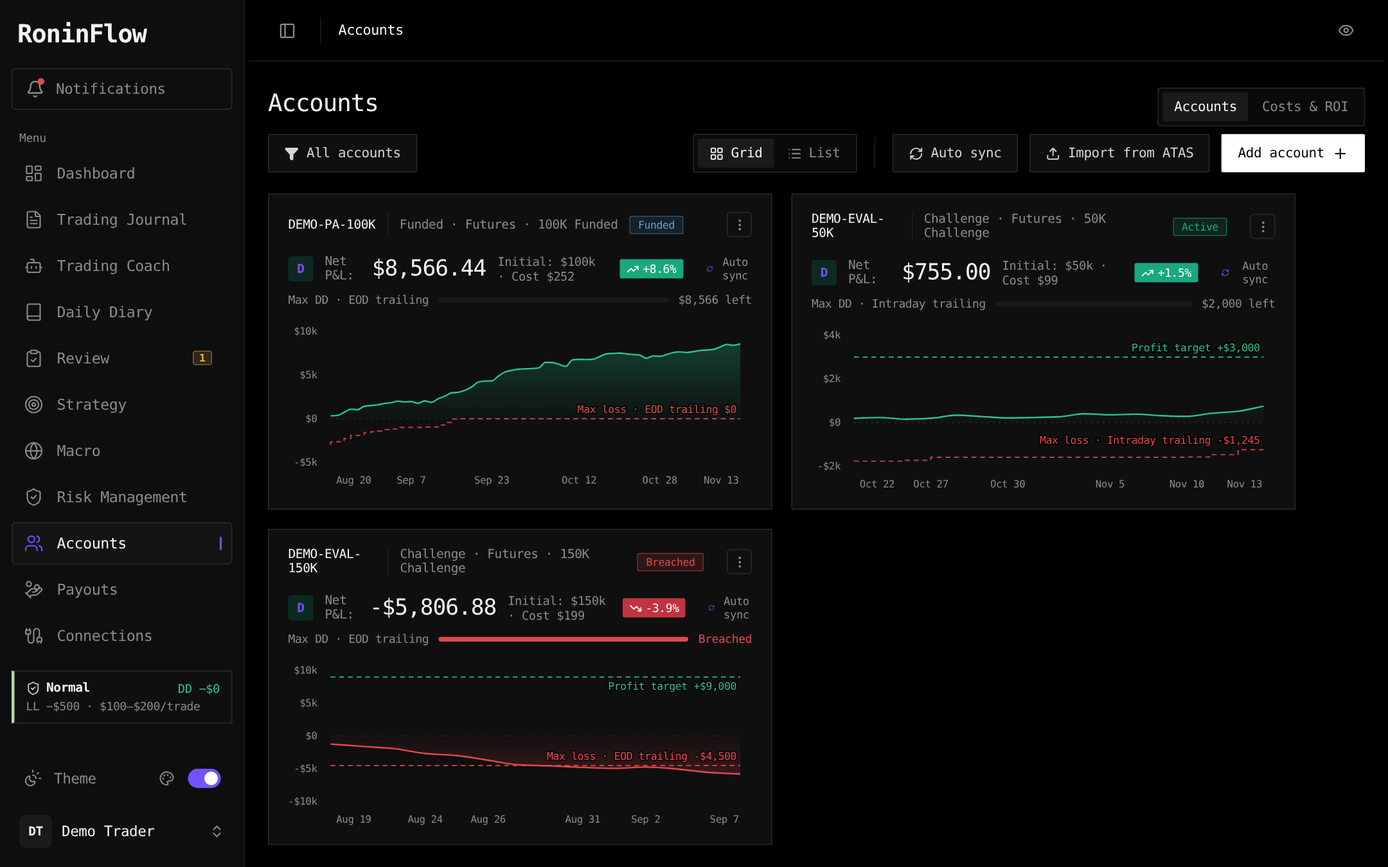
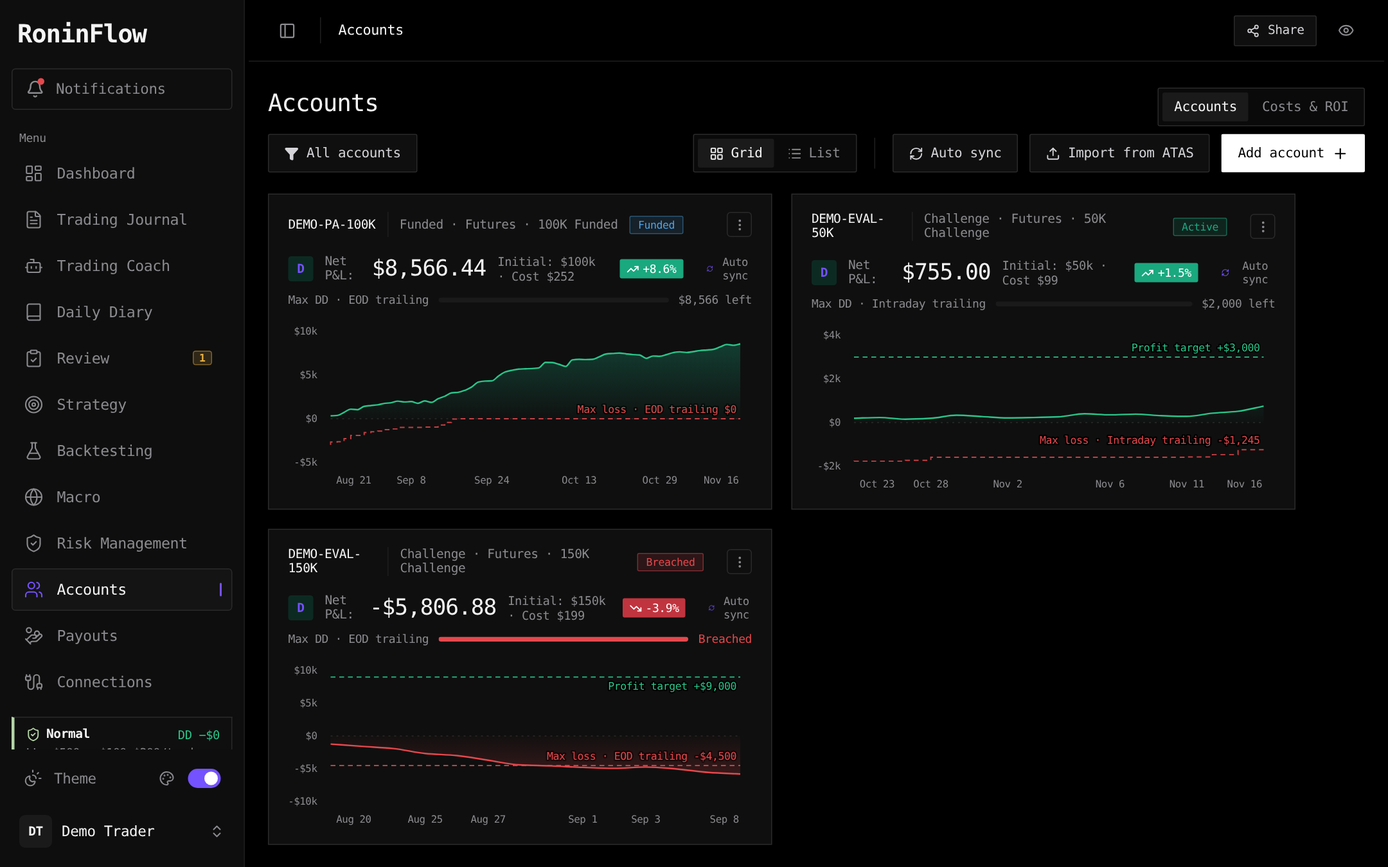
1.8.0: backtesting, tick replay, volume profile — and all of it in the live demo
- demo: COT 'Add market' (sample markets), earlier releases of calendar events,
  snapshot files built in the browser (charts included); backtesting and charts work
- builds are one script file, so snapshot files are fully self-contained
- README: features, screenshots (backtest replay, automated results, optimizer,
  what-if, economic calendar, COT, …), the Backtesting page and tick data sources
- CHANGELOG 1.8.0

Claude-Session: https://claude.ai/code/session_01UwZjWnkvuFAiHZyDgpbxUS

diff --git a/src/lib/macroDemo.js b/src/lib/macroDemo.js
@@ -66,10 +66,24 @@ const MARKETS = [
   ['GC', 'Gold', 'Metals', 5e5, 0.45], ['SI', 'Silver', 'Metals', 1.6e5, 0.3], ['HG', 'Copper', 'Metals', 2.1e5, 0.08],
   ['CL', 'Crude Oil (WTI)', 'Energy', 1.7e6, 0.1], ['NG', 'Natural Gas', 'Energy', 1.5e6, -0.22], ['BTC', 'Bitcoin', 'Crypto', 2.8e4, 0.12], ['ZC', 'Corn', 'Grains', 1.5e6, -0.18],
 ];
-function cot() {
+// markets the demo lets you add (RoninFlow on your computer lists all ~400 in the CFTC report)
+const EXTRA = [
+  ['PL', 'PLATINUM - NEW YORK MERCANTILE EXCHANGE', 7e4, 0.2], ['PA', 'PALLADIUM - NEW YORK MERCANTILE EXCHANGE', 2e4, -0.25],
+  ['ZW', 'WHEAT-SRW - CHICAGO BOARD OF TRADE', 4e5, -0.3], ['ZS', 'SOYBEANS - CHICAGO BOARD OF TRADE', 8e5, 0.05], ['LE', 'LIVE CATTLE - CHICAGO MERCANTILE EXCHANGE', 3.5e5, 0.4],
+  ['HE', 'LEAN HOGS - CHICAGO MERCANTILE EXCHANGE', 2.8e5, 0.1], ['SB', 'SUGAR NO. 11 - ICE FUTURES U.S.', 9e5, -0.15], ['KC', 'COFFEE C - ICE FUTURES U.S.', 2e5, 0.35],
+  ['CC', 'COCOA - ICE FUTURES U.S.', 1.6e5, 0.2], ['CT', 'COTTON NO. 2 - ICE FUTURES U.S.', 2.4e5, -0.2], ['6C', 'CANADIAN DOLLAR - CHICAGO MERCANTILE EXCHANGE', 1.7e5, -0.3],
+  ['6S', 'SWISS FRANC - CHICAGO MERCANTILE EXCHANGE', 6e4, -0.1], ['6M', 'MEXICAN PESO - CHICAGO MERCANTILE EXCHANGE', 2.2e5, 0.45], ['6N', 'NZ DOLLAR - CHICAGO MERCANTILE EXCHANGE', 5e4, -0.3],
+  ['VX', 'VIX FUTURES - CBOE FUTURES EXCHANGE', 3.5e5, -0.35], ['ZT', 'UST 2Y NOTE - CHICAGO BOARD OF TRADE', 4e6, -0.1], ['ZF', 'UST 5Y NOTE - CHICAGO BOARD OF TRADE', 6e6, -0.2],
+  ['ETH', 'ETHER CASH SETTLED - CHICAGO MERCANTILE EXCHANGE', 1.4e4, 0.1], ['HO', 'NY HARBOR ULSD - NEW YORK MERCANTILE EXCHANGE', 3.2e5, 0.05], ['RB', 'GASOLINE RBOB - NEW YORK MERCANTILE EXCHANGE', 3.4e5, 0.15],
+].map(([key, name, oi0, bias], k) => ({ key, name, oi0, bias, code: `DX${String(k).padStart(3, '0')}` }));
+function cotMarkets() { return { markets: EXTRA.map(({ code, name }) => ({ code, name: `${name} (sample)` })).sort((a, b) => a.name.localeCompare(b.name)) }; }
+
+function cot(extraCodes = []) {
   const weeks = 160;
   const last = new Date(); last.setUTCDate(last.getUTCDate() - ((last.getUTCDay() + 5) % 7) - (last.getUTCDay() >= 5 ? 0 : 7)); // last Tuesday with a released report
-  const markets = MARKETS.map(([key, label, group, oi0, bias], k) => {
+  const extras = extraCodes.map((c) => EXTRA.find((x) => x.code === c)).filter(Boolean);
+  const list = [...MARKETS.map(([key, label, group, oi0, bias]) => ({ key, label, group, oi0, bias })), ...extras.map((x) => ({ key: x.code, label: x.name.split(' - ')[0], group: 'Yours', oi0: x.oi0, bias: x.bias, code: x.code, name: `${x.name} (sample)`, extra: true }))];
+  const markets = list.map(({ key, label, group, oi0, bias, code, name, extra }, k) => {
     let net = bias * oi0 * 0.6, oi = oi0;
     const rows = [];
     for (let w = weeks - 1; w >= 0; w--) {
@@ -82,15 +96,25 @@ function cot() {
       const cl = Math.round(oi * 0.5 - net * 0.8), cs = Math.round(oi * 0.5 + net * 0.2);
       rows.push([d, Math.round(oi), Math.max(0, sl), Math.max(0, ss), Math.max(0, cl), Math.max(0, cs), Math.round(oi * 0.08 + small), Math.round(oi * 0.08 - small)]);
     }
-    return { key, label, group, code: `DEMO${k}`, name: `${label.toUpperCase()} — sample data`, rows };
+    return { key, label, group, code: code || `DEMO${k}`, name: name || `${label.toUpperCase()} — sample data`, rows, ...(extra ? { extra: true } : {}) };
   });
   const reportDate = markets[0].rows[markets[0].rows.length - 1][0];
   return { markets, reportDate, nextRelease: new Date(Date.parse(`${reportDate}T20:30:00Z`) + 10 * DAY).toISOString(), updatedAt: Date.now(), source: 'Sample data (demo) — RoninFlow on your computer loads the real CFTC report' };
 }
 
+/** Earlier releases of one event (the same made-up numbers the calendar shows for those weeks). */
+function history(ccy, title) {
+  const now = Date.now();
+  const all = calendar(new Date(now - 400 * DAY).toISOString().slice(0, 10), new Date(now).toISOString().slice(0, 10)).events;
+  return { events: all.filter((e) => e.ccy === ccy && e.title === title && Date.parse(e.t) < now).slice(-12) };
+}
+
 export function demoMacro(url) {
   const u = new URL(url, 'http://x');
+  if (u.pathname.endsWith('/calendar/history')) return history(u.searchParams.get('ccy'), u.searchParams.get('title'));
   if (u.pathname.endsWith('/calendar')) return calendar(u.searchParams.get('from'), u.searchParams.get('to'));
-  if (u.pathname.endsWith('/cot')) return cot();
+  if (u.pathname.endsWith('/cot/markets')) return cotMarkets();
+  if (u.pathname.endsWith('/cot')) return cot((u.searchParams.get('extra') || '').split(',').filter(Boolean));
+  if (u.pathname.endsWith('/refresh')) return { ok: true };
   return {};
 }

diff --git a/src/lib/demoSnapshot.js b/src/lib/demoSnapshot.js
@@ -1,0 +1,46 @@
+// Snapshot files on the demo site: the same single-file view-only journal RoninFlow makes, built in the browser
+// (the demo has no server). The page, its styles and script are inlined; the made-up prices for the trade days and
+// the chart library go along, so the execution charts work in the file too.
+import { DEMO_CHART_LIB } from './demoMode';
+import { demoCandles } from './demoCandles';
+
+const scriptSafe = (json) => json.replace(/</g, '\\u003c').replace(/\u2028/g, '\\u2028').replace(/\u2029/g, '\\u2029');
+const addDays = (key, n) => { const d = new Date(`${key}T12:00:00Z`); d.setUTCDate(d.getUTCDate() + n); return d.toISOString().slice(0, 10); };
+const get = async (url) => { const r = await fetch(url); if (!r.ok) throw new Error(`Couldn’t load ${url}`); return r.text(); };
+
+/** scope: { kind: 'all' } | { kind: 'page', route, label, from?, to? } */
+export async function demoSnapshot(state, scope, label, hideMoney) {
+  const s = JSON.parse(JSON.stringify(state));
+  if (scope.kind === 'page' && scope.from && scope.to) { // a page with dates only carries those dates
+    const lo = addDays(scope.from, -1), hi = addDays(scope.to, 1);
+    s.trades = (s.trades || []).filter((t) => String(t.entry).slice(0, 10) >= lo && String(t.entry).slice(0, 10) <= hi);
+    s.diary = Object.fromEntries(Object.entries(s.diary || {}).filter(([d]) => d >= scope.from && d <= scope.to));
+  }
+  s.payouts = []; s.notebook = undefined; s.coachChats = undefined;
+  s.settings = { ...s.settings, privacy: !!(hideMoney || s.settings?.privacy), setupDone: true };
+  // the made-up prices for each traded symbol and day
+  const charts = {};
+  for (const t of s.trades || []) {
+    const d = String(t.entry || '').slice(0, 10);
+    const k = `${t.symbol}|${d}`;
+    if (!t.symbol || !d || charts[k]) continue;
+    const candles = demoCandles(s.trades, t.symbol, d);
+    if (candles.length) charts[k] = { symbol: t.symbol, date: d, interval: '1m', source: 'Made-up demo prices', final: true, candles };
+  }
+  let chartLib = null;
+  try { chartLib = await get(DEMO_CHART_LIB); } catch { /* offline: the file says charts aren't included */ }
+  // the page, with its styles and script inlined
+  const base = import.meta.env.BASE_URL || '/';
+  let html = await get(base);
+  html = html.replace(/\s*<link rel="(icon|manifest|apple-touch-icon|modulepreload)"[^>]*>/g, '');
+  for (const m of [...html.matchAll(/<link rel="stylesheet"[^>]*href="([^"]+\.css)"[^>]*>/g)]) { const css = await get(new URL(m[1], location.href).href); html = html.replace(m[0], () => `<style>${css}</style>`); } // a function: no "$&" surprises
+  const sm = html.match(/<script type="module"[^>]*src="([^"]+\.js)"[^>]*><\/script>/);
+  if (!sm) throw new Error('Couldn’t find the app script');
+  const code = (await get(new URL(sm[1], location.href).href)).replace(/<\/script/gi, '<\\/script');
+  const meta = { scope, label, hideMoney: !!hideMoney, createdAt: new Date().toISOString(), snapshot: true, sharedBy: 'Demo', images: {}, charts, chartLib };
+  const boot = `<script>window.__RF_SNAPSHOT__=${scriptSafe(JSON.stringify({ meta, state: s }))};</script>\n<script type="module">${code}</script>`;
+  html = html.replace(sm[0], () => boot);
+  html = html.replace(/<title>[^<]*<\/title>/, () => `<title>${String(label || 'Journal').replace(/[<>&]/g, '')} · RoninFlow (view only)</title>`);
+  const name = `roninflow-demo-${(scope.kind === 'page' ? label || 'page' : 'journal').toLowerCase().replace(/[^a-z0-9]+/g, '-').replace(/^-|-$/g, '')}.html`;
+  return { html, name };
+}

diff --git a/src/components/ShareDialog.jsx b/src/components/ShareDialog.jsx
@@ -34,7 +34,6 @@ const scopeText = (l) => (l.scope?.kind === 'page' ? l.scope.label || 'A page' :
 
 export function ShareButton({ route }) {
   const [open, setOpen] = useState(false);
-  if (IS_DEMO) return null;
   return (
     <>
       <button className="btn sm share-btn" onClick={() => setOpen(true)} title="Share a view-only link or snapshot of your journal"><Share2 size={14} /> <span className="hide-m">Share</span></button>
@@ -91,6 +90,19 @@ export default function ShareDialog({ route, onClose }) {
   };
   const snapshot = async () => {
     setBusy('snap');
+    if (IS_DEMO) { // no server on the demo site: the file is put together in this browser
+      try {
+        const { demoSnapshot } = await import('../lib/demoSnapshot');
+        const { html, name } = await demoSnapshot(state, scope, label, hideMoney);
+        const url = URL.createObjectURL(new Blob([html], { type: 'text/html' }));
+        const a = Object.assign(document.createElement('a'), { href: url, download: name });
+        document.body.appendChild(a); a.click(); a.remove();
+        setTimeout(() => URL.revokeObjectURL(url), 5000);
+        toast('Snapshot downloaded — open it in any browser');
+      } catch (e) { toast(e.message); }
+      setBusy('');
+      return;
+    }
     try {
       const r = await fetch('/api/shares/snapshot', { method: 'POST', headers: { 'content-type': 'application/json' }, body: JSON.stringify({ scope, label, hideMoney, tz: Intl.DateTimeFormat().resolvedOptions().timeZone }) });
       if (!r.ok) throw new Error('Couldn’t build the snapshot');
@@ -118,7 +130,8 @@ export default function ShareDialog({ route, onClose }) {
     <Modal open onClose={onClose} width={640}>
       <ModalHead title="Share your journal" sub="A view-only link or file — account numbers are hidden and nothing can be changed" onClose={onClose} />
       <div className="modal-body share-body">
-        {!server && <div className="share-warn">Sharing needs RoninFlow running on your computer (the app, Docker or a home server).</div>}
+        {!server && !IS_DEMO && <div className="share-warn">Sharing needs RoninFlow running on your computer (the app, Docker or a home server).</div>}
+        {IS_DEMO && <div className="share-warn">In the demo you can download a snapshot file. Live links are served by RoninFlow on your computer (or home server), so they aren’t available here.</div>}
 
         <div className="field"><label className="label">What to share</label>
           <div className="share-what">
@@ -169,7 +182,7 @@ export default function ShareDialog({ route, onClose }) {
 
         <section className="share-sec">
           <div className="share-sec-h"><Download size={15} /> <b>Snapshot file</b><span className="muted">— one file that opens in any browser, even when this computer is off; frozen as it is now, execution charts included</span></div>
-          <button className="btn" disabled={!server || busy === 'snap'} onClick={snapshot}><Download size={14} /> {busy === 'snap' ? 'Building…' : `Download ${scope.kind === 'page' ? 'this page' : 'the whole journal'} as a file`}</button>
+          <button className="btn" disabled={(!server && !IS_DEMO) || busy === 'snap'} onClick={snapshot}><Download size={14} /> {busy === 'snap' ? 'Building…' : `Download ${scope.kind === 'page' ? 'this page' : 'the whole journal'} as a file`}</button>
         </section>
 
         {links.length > 0 && (

diff --git a/src/views/Cot.jsx b/src/views/Cot.jsx
@@ -124,7 +124,7 @@ function AddMarket({ have, onAdd }) {
   const [q, setQ] = useState('');
   const [err, setErr] = useState(null);
   const load = () => {
-    if (list || IS_DEMO) return;
+    if (list) return;
     fetch('/api/macro/cot/markets').then((r) => r.json()).then((j) => (j.markets ? setList(j.markets) : setErr(j.error || 'Couldn’t load the list'))).catch((e) => setErr(e.message));
   };
   const needle = q.trim().toLowerCase();
@@ -133,7 +133,7 @@ function AddMarket({ have, onAdd }) {
     <Popover align="right" width={380} trigger={({ toggle }) => <button className="btn sm" onClick={() => { load(); toggle(); }}><Plus size={14} /> Add market</button>}>
       {(close) => (
         <div className="cot-add">
-          {IS_DEMO ? <div className="muted" style={{ padding: 10, fontSize: 13 }}>In RoninFlow on your computer you can add any of the ~400 markets in the CFTC report.</div> : (
+          {(
             <>
               <label className="ec-search" style={{ margin: 6 }}><Search size={15} /><input className="input" autoFocus placeholder="Search all CFTC markets" value={q} onChange={(e) => setQ(e.target.value)} /></label>
               <div className="cot-add-list">
@@ -141,6 +141,7 @@ function AddMarket({ have, onAdd }) {
                 {!list && !err && <div className="muted" style={{ padding: 10 }}>Loading…</div>}
                 {found.map((m) => <button key={m.code} className="pop-item" onClick={() => { onAdd(m.code); close(); }}><span className="grow truncate" title={m.name}>{m.name}</span><span className="muted mono">{m.code}</span></button>)}
                 {list && !found.length && <div className="muted" style={{ padding: 10, fontSize: 13 }}>No match.</div>}
+                {IS_DEMO && list && <div className="muted" style={{ padding: '6px 10px', fontSize: 12 }}>Sample markets in the demo — RoninFlow on your computer lists all ~400 in the CFTC report.</div>}
               </div>
             </>
           )}

diff --git a/src/lib/demoMode.js b/src/lib/demoMode.js
@@ -43,6 +43,7 @@ export function installDemoFetch() {
       if (url.startsWith('/api/candles/history/bars')) return import('./demoCandles').then(({ demoHistory }) => reply(200, demoHistory(q.get('symbol'), q.get('from') < '2025-01-01' ? '2025-01-01' : q.get('from'), q.get('to') > last ? last : q.get('to'))));
       return reply(200, { job: { status: 'done', reason: 'demo', oldest: '2025-01-06', done: 98, bars: 0 }, coverage: { days: 480, first: '2025-01-01', last }, contract: { source: 'demo', c: q.get('symbol') } });
     }
+    if (url.startsWith('/api/macro/')) return import('./macroDemo').then(({ demoMacro }) => reply(200, demoMacro(url))); // sample macro data
     if (url.startsWith('/api/candles')) return reply(404, { error: 'Not available in the demo.' });
     return reply(404, { error: 'Not available in the demo — this needs RoninFlow running on your computer.' });
   };

diff --git a/vite.config.js b/vite.config.js
@@ -10,4 +10,6 @@ export default defineConfig({
   // Fixed port so the ATAS add-on always knows where to send trades.
   server: { port: 5173, strictPort: true, watch: { ignored: ['**/atas-addon/**', '**/data/**', '**/logs/**'] } },
   preview: { port: 5173, strictPort: true },
+  // one script file: a snapshot (share → file) inlines it, so nothing may load separately later
+  build: { rolldownOptions: { output: { codeSplitting: false } } },
 })

diff --git a/README.md b/README.md
@@ -9,7 +9,7 @@ reviews and screenshots stay on your own machine.
 [![Live demo](https://img.shields.io/badge/live%20demo-try%20it-7452ff)](https://coreyheyman.github.io/roninflow/)
 [![Docker](https://img.shields.io/badge/docker-ghcr.io-7452ff)](https://github.com/coreyheyman/roninflow/pkgs/container/roninflow)
 
-**[▶ Try the live demo](https://coreyheyman.github.io/roninflow/)** (made-up data and prices — charts and replay included — runs in your browser) ·
+**[▶ Try the live demo](https://coreyheyman.github.io/roninflow/)** (made-up data and prices — charts, tick replay, backtesting, Macro and snapshot sharing included — runs in your browser) ·
 **[⬇ Download for Windows](https://github.com/coreyheyman/roninflow/releases/latest)** ·
 **[🍎🐧 macOS & Linux](docs/install.md#macos-and-linux)** ·
 **[🐳 Docker](docs/install.md#docker-home-server-nas-raspberry-pi-45)**
@@ -26,18 +26,33 @@ reviews and screenshots stay on your own machine.
   breakdown of what it says about your trading), **Custom Chart** widgets (any metric by weekday, hour, symbol, strategy,
   tag… with up to three metrics) and **Cross Analysis** (symbol × weekday / week / month / quarter heat map).
 - **Full-screen charts with a market replay:** every execution chart in the diary opens full screen with drawing tools
-  (trend lines, Fibonacci, rectangles, long / short positions, text you can resize and rotate…), indicators (EMA, SMA, VWAP,
-  Bollinger, RSI, MACD), timeframes from 1m to 1d, your colours and a screenshot button — then **replay the session bar by
-  bar** with your fills appearing as they happened. Price bars come from your platform add-on (every add-on sends them),
-  Databento, Polygon or Yahoo — each one switchable.
+  (trend lines, Fibonacci, rectangles, long / short positions, text you can resize and rotate, a **fixed-range volume
+  profile**…), indicators (EMA, SMA, VWAP, Bollinger, RSI, MACD, **volume profile** for the visible range or each session —
+  one row per tick, with POC and value area), timeframes from 1m to 1d, your colours and a screenshot button. Scroll left
+  and earlier days load in. Then **replay the session** bar by bar — or **tick by tick** when a source has the ticks — with
+  your fills appearing as they happened. Price bars come from your platform add-on (every add-on sends them), Databento,
+  Polygon or Yahoo — each one switchable.
+- **Backtesting**, three ways:
+  - **Replay sessions:** pick any day and trade it as if live — an order panel like your platform's (market, bid / ask,
+    limit and stop orders, cancel, reverse, breakeven, SL / TP brackets in ticks), **drag a LMT or STP button onto the
+    chart** to place it at that price, drag order / stop / target tags to move them. Tick-by-tick from ATAS, NinjaTrader,
+    Quantower, MetaTrader 5, cTrader, Sierra Chart, Databento or Polygon (real-time to 60×), else bar by bar. Restart from
+    any bar, jump to any date; every simulated trade lands in the session's stats.
+  - **What-if:** re-run your real trades with rules you didn't follow — max trades or losses a day, daily loss limit or
+    target, max loss per trade, time window, weekdays, skip a strategy, symbol or tag — and see the new equity curve.
+  - **Automated:** rules (or code) over your platform's full 1-minute history, downloaded by the add-on and joined at
+    contract rolls. Market, stop and limit entries, trailing stops, breakeven, risk-based sizing, commission and
+    slippage; a TradingView-style performance report, monthly table, drawdown, MAE / MFE per trade. Built against
+    overfitting: a locked out-of-sample period, parameter sweeps that pick the most *robust* settings (not the luckiest),
+    walk-forward, Monte Carlo, a +1 tick slippage test, a random-entry baseline and a luck test.
 - **Daily diary** with pre/post-session routines, market conditions, edge blockers and execution charts.
 - **Weekly → yearly reviews** with your own questions, market-condition and strategy cards with their stats, and an
   **AI coach** (your own key, a free local model, or offline).
 - **Strategies and market conditions** side by side: P&L curve, win rate and EV per card, full stats on click.
 - **Risk tiers and risk profiles** that move you between risk levels based on drawdown and recent days, days-to-ruin,
   prop-firm account rules (profit target, static / intraday / EOD trailing drawdown) and payouts / ROI.
-- **Share view-only:** a live link or an offline snapshot file of your journal or one page, with account numbers hidden and
-  optional hidden dollar amounts. **Sync trade reviews** across copy-traded accounts.
+- **Share view-only:** a live link or an offline snapshot file of your journal or one page — execution charts included —
+  with account numbers hidden and optional hidden dollar amounts. **Sync trade reviews** across copy-traded accounts.
 - **Macro:** an economic calendar (list, week and month views, in your time zone, with forecasts and actuals) and the
   CFTC **COT report** — who's long, who's short and who's crowded across index, rates, FX, metals, energy and crypto futures.
 - **Private by design:** password protection, encrypted API keys, daily backups — nothing leaves your machine unless you
@@ -48,14 +63,20 @@ reviews and screenshots stay on your own machine.
 
 | | |
 |---|---|
-| ![Full-screen chart with drawing tools and indicators](docs/screenshots/chart.png) | ![Bar-by-bar market replay](docs/screenshots/replay.png) |
-| **Full-screen chart** — drawing tools, indicators, your executions | **Market replay** — step through the session bar by bar |
-| ![Ronin Score, custom charts and cross analysis](docs/screenshots/custom-charts.png) | ![Daily diary with today's risk and edge blockers](docs/screenshots/diary.png) |
-| **Your own dashboards** — Ronin Score, custom charts, cross analysis | **Daily diary** — today's risk tier, edge blockers, session cards |
-| ![Monthly review with market-condition and strategy cards](docs/screenshots/review.png) | ![Strategy performance cards](docs/screenshots/strategy.png) |
-| **Reviews** — weekly to yearly, conditions and strategies | **Strategies** — P&L curve and stats per strategy |
-| ![Performance by market condition](docs/screenshots/market-conditions.png) | ![Prop-firm accounts with drawdown and ROI](docs/screenshots/accounts.png) |
-| **Market conditions** — how you trade in each one | **Accounts** — prop-firm rules, drawdown, costs & payouts |
+| ![Full-screen chart with drawing tools, indicators and volume profile](docs/screenshots/chart.png) | ![Backtest replay with the order panel, tick by tick](docs/screenshots/replay.png) |
+| **Full-screen chart** — drawing tools, indicators, volume profile, your executions | **Backtest replay** — trade any day tick by tick, drag orders onto the chart |
+| ![Automated backtest results](docs/screenshots/backtest.png) | ![Parameter sweep ranked by robustness](docs/screenshots/optimize.png) |
+| **Automated backtests** — rules or code over years of 1-minute data | **Optimize without overfitting** — the most robust settings, not the luckiest |
+| ![What-if test on your real trades](docs/screenshots/whatif.png) | ![Economic calendar week view](docs/screenshots/macro-calendar.png) |
+| **What-if** — your real trades, re-run with the rules you meant to follow | **Economic calendar** — list, week and month, forecasts and actuals |
+| ![COT report](docs/screenshots/macro-cot.png) | ![Ronin Score, custom charts and cross analysis](docs/screenshots/custom-charts.png) |
+| **COT report** — who's long, who's short, who's crowded | **Your own dashboards** — Ronin Score, custom charts, cross analysis |
+| ![Daily diary with today's risk and edge blockers](docs/screenshots/diary.png) | ![Monthly review with market-condition and strategy cards](docs/screenshots/review.png) |
+| **Daily diary** — today's risk tier, edge blockers, session cards | **Reviews** — weekly to yearly, conditions and strategies |
+| ![Strategy performance cards](docs/screenshots/strategy.png) | ![Performance by market condition](docs/screenshots/market-conditions.png) |
+| **Strategies** — P&L curve and stats per strategy | **Market conditions** — how you trade in each one |
+| ![Prop-firm accounts with drawdown and ROI](docs/screenshots/accounts.png) | |
+| **Accounts** — prop-firm rules, drawdown, costs & payouts | |
 
 <p align="center"><img src="docs/screenshots/mobile.png" width="300" alt="RoninFlow on a phone"></p>
 
@@ -100,6 +121,7 @@ so installed copies can check for updates.
 | `#/review/weekly` · `monthly` · `quarterly` · `yearly` | Periodic reviews. Each page has a calendar of daily P&L for the period (Mon–Fri strip, month grid, three months, or a 12-month heat map), review stats (EV, Performance Ratio, ROMAD, P&L, win rate, PF, Sharpe, biggest drawdown, avg winning/losing day, best/worst day, max consecutive winning/losing days, winning-day %, disciplined trades %, size management %) and the review prompts. ‹ › steps to past periods; answers save automatically; **Mark … reviewed** completes it. A review becomes due at 1:00 PM on the last weekday of the period: you get a notification and a **Due** badge in the sidebar until it's done. Last period's commitment is shown at the top. Monthly, quarterly and yearly reviews also show a card per market condition and per strategy; click one for its full stats. |
 | `#/notebook` | Free-form notebook (not in the sidebar; open it at this address). |
 | `#/strategy` | **Trading strategies** and **Market conditions** tabs: a card per strategy / condition with its P&L curve, net P&L, win rate and EV over 30 days / 90 days / 1 year / all time; click for the full stats. 3-step strategy builder (Basics, Rules Engine, Media & Education). Strategy pages show stats from linked trades, equity curve and a pre-trade checklist. |
+| `#/backtest` | **Backtesting.** *Replay*: sessions you trade day by day in the full-screen chart (order panel, drag-to-place limit / stop orders, draggable order / stop / target tags, tick-by-tick when a source has ticks, any date, restart from a bar) with the session's trades, stats and a comparison across sessions. *What-if*: your real trades re-run with daily and per-trade rules, time and weekday windows and skipped strategies / symbols / tags. *Automated* (`#/backtest/auto`): rule-builder or code strategies over your platform's downloaded 1-minute history — results, TradingView-style report, trades (MAE / MFE, CSV), Optimize (sweep ranked by robustness), Walk-forward, out-of-sample lock, Monte Carlo, slippage stress, random baseline and luck test. |
 | `#/macro/calendar` | **Economic Calendar**: List (today / this week / next week), Week and Month views in your time zone, impact and currency filters, search, a countdown to the next release and the next high-impact event, beat / miss colouring, and earlier releases of each event. Data: ForexFactory's public weekly feed (this week and next; every week fetched is kept, so history builds up; checked every 30 minutes). Its feed has no actual figures, so actuals — and the weeks ForexFactory hasn't published — come from TradingView's public calendar feed, checked every few minutes around releases (unofficial; switch it off at the bottom of the page). Official US release dates (Fed, BLS) are the last fallback. Market and bank holidays for the US, UK, eurozone, Japan, Canada, Australia, New Zealand and Switzerland are worked out from each country's rules (`holidays.js`), so they show months ahead, marked *markets closed*, *early close* or *banks closed*. |
 | `#/macro/cot` | **COT Report**: about 30 futures markets from the CFTC's weekly Commitments of Traders (Legacy, futures only, ~3 years): large speculators' net position and weekly change, % long, COT index over 6M / 1Y / 3Y with *crowded long / short* flags, commercials, open interest and a trend line. Click a market for its chart and recent weeks; **Add market** searches every market in the report. Updates after each Friday release. |
 | `#/accounts` | Account cards with equity charts, status menu, add / edit / delete, detail modal with profit-target / drawdown / daily-limit progress. |
@@ -143,6 +165,23 @@ into the RoninFlow server (`atas-sync.js`, data kept in `data/atas-sync/`). It r
 every 10 minutes, so nothing is lost if the journal wasn't running. Trades are matched by ATAS trade ID and to trades
 you already imported from a file (no duplicates; your notes/tags are kept). Time stamps are auto-detected.
 Turn sync off per account on the Accounts page or in the sync window (top-bar badge).
+
+## Tick data for replays
+
+Replays (and backtest replays) move tick by tick when a source has the ticks; otherwise they go bar by bar.
+
+| Source | What you get | How |
+|---|---|---|
+| ATAS | trades, buyer / seller side | Journal Sync 1.5+ fetches each hour a replay needs from ATAS's trade history (keep it on a chart of that market — an ES chart serves MES) |
+| NinjaTrader | trades | the add-on loads 1-tick bars from your data connection |
+| Quantower | trades, aggressor side | the plug-in loads trade-tick history |
+| MetaTrader 5 | trades where the broker has them, else bid quotes | the EA uses `CopyTicksRange` (MetaTrader 4 has no tick history) |
+| cTrader | bid quotes | the cBot loads tick history |
+| Sierra Chart | trades, side from bid / ask volume | the study reads a hidden 1-trade-per-bar chart |
+| Databento / Polygon | trades (futures / stocks & crypto) | fetched directly with your key (Settings → Price data) |
+
+Each hour is kept once it arrives (`data/ticks/`), so it's never fetched twice. Update an add-on to its latest version for ticks;
+older versions keep working with bars.
 
 ## Playbook: routines, market conditions, edge blockers, risk tiers
 

diff --git a/CHANGELOG.md b/CHANGELOG.md
@@ -2,6 +2,20 @@
 
 Each release's notes on GitHub come from its section here (`## x.y.z`, newest first).
 
+## 1.8.0
+
+- **Backtesting** (new sidebar page), three ways:
+  - **Replay sessions:** trade any day as if it were live in the full-screen chart. An order panel like your platform's — market, Buy Bid / Sell Ask, limit and stop orders, Cancel Bids / Asks / All, Reverse, Breakeven, Close, and SL / TP brackets in ticks. **Drag a Buy / Sell LMT or STP button onto the chart** to place the order where you drop it; drag order, stop and target tags to move them, × to cancel. Working orders fill where price reaches them (gaps at the open; a fill and its stop in the same bar count as stopped). Pick any date from the date at the top left, or **Start from a bar** — scroll back for earlier days and click where the replay should restart. Each session keeps its trades and stats, and sessions can be compared.
+  - **What-if:** your real trades re-run with the rules you meant to follow — max trades or losing trades a day, daily loss limit or profit target, max loss per trade, a time window, weekdays, longs / shorts only, skipping strategies, symbols or tags — with the new equity curve next to the real one and what each rule changed.
+  - **Automated:** strategies from a rule builder (or code) run over your platform's full 1-minute history. **Download history** asks the add-on for it a week at a time (ATAS sends its charts' history instead; an ES chart serves MES), joined and back-adjusted at contract rolls. Market, stop and limit entries, trailing stop, breakeven, risk-based position size, commission and slippage, entry window and flat-by time. Results: a TradingView-style performance summary (all / long / short), monthly table, drawdown chart, trades with MAE / MFE and CSV export (click one to see it on the chart). Against overfitting: a locked out-of-sample period, a parameter sweep that ranks settings by their neighbours (robust, not lucky), walk-forward, Monte Carlo, a +1-tick slippage test, a random-entry baseline and a luck test. Checked trade-for-trade against an independent backtester.
+- **Tick-by-tick replay:** when a source has the ticks, replays move trade by trade — the bar builds up and orders fill at traded prices. Speeds are real time to 60×, plus a one-tick step. Ticks come from **ATAS** (Journal Sync 1.5: fetched from ATAS's trade history for the hour you're replaying), **NinjaTrader**, **Quantower**, **MetaTrader 5**, **cTrader**, **Sierra Chart** (update the add-on), **Databento** or **Polygon**. The Ticks button shows where they come from; without them the replay goes bar by bar.
+- **Volume profile:** for the visible range or each session (Indicators), and a **fixed-range volume profile** drawing tool — one row per tick, buying / selling, value area, POC / VAH / VAL. It never uses bars past the replay position.
+- **Charts:** scroll left to load earlier days; a nicer replay progress bar (day boundaries, your executions, hover time); symbols that don't fit above the execution chart go in a "+N" menu; days whose saved bars are hourly switch to 1-minute bars once your platform has them.
+- **Sharing:** links and snapshot files include the execution charts (a link loads prices for its own trades' days, never from a paid source; a snapshot carries them inside).
+- **Live demo:** backtesting (replay with ticks, what-if and automated), every chart, the Macro pages (adding COT markets, earlier releases of calendar events) and snapshot files now work in the demo too.
+- **Price data:** micro and full-size contracts (MES / ES, MNQ / NQ…) count as one market for history downloads and day requests; a day with no prices says what to do for your platform instead of "no price source".
+- Phones: pop-ups stay on screen, and the dashboard calendar sizes to its content. The home-server copy keeps working when public sharing (Funnel) is on, and reaching the private app over Funnel shows a friendly page instead of "Not found".
+
 ## 1.7.0
 
 - **Full-screen charts:** the expand button on any execution chart opens it full screen with TradingView-style tools.
